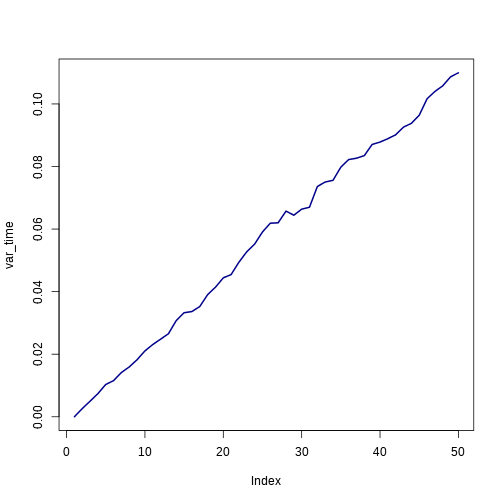
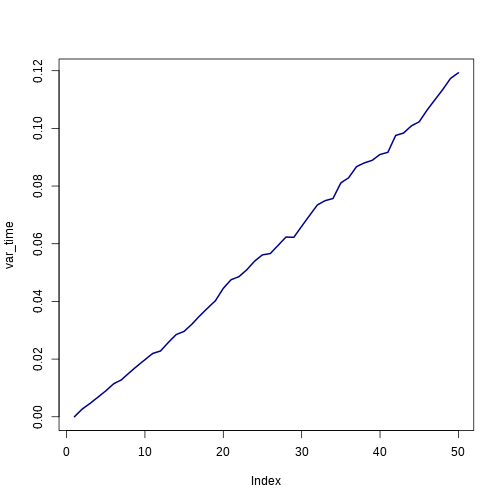
Exo neutral

diff --git a/seances/slides2.md b/seances/slides2.md
@@ -517,7 +517,7 @@ brownian(steps=4)
 ```
 
 ```
-[1]  0.000000  0.015248  0.004407 -0.075201
+[1]  0.000000 -0.008111  0.010608 -0.007255
 ```
 
 
@@ -533,11 +533,11 @@ for(i in c(1:5))
 ```
 
 ```
-[1] 0.00000 0.02607 0.03671
-[1]  0.00000 -0.03004 -0.04216
-[1]  0.00000 -0.06798 -0.13157
-[1]  0.00000 -0.05472 -0.06277
-[1] 0.00000 0.07012 0.05907
+[1] 0.00000 0.03095 0.04652
+[1]  0.000000 -0.015567  0.006057
+[1] 0.000000 0.004555 0.062313
+[1] 0.000000 0.002926 0.043918
+[1] 0.00000 0.02746 0.09229
 ```
 
 
@@ -550,10 +550,10 @@ replicate(5, brownian(steps=3))
 ```
 
 ```
-        [,1]      [,2]     [,3]     [,4]    [,5]
-[1,] 0.00000  0.000000  0.00000  0.00000 0.00000
-[2,] 0.02183 -0.006138 -0.07229 -0.03173 0.14611
-[3,] 0.09703 -0.008637 -0.07350 -0.07091 0.05688
+          [,1]      [,2]      [,3]     [,4]      [,5]
+[1,]  0.000000  0.000000  0.000000  0.00000  0.000000
+[2,] -0.035466 -0.009045 -0.007019 -0.03014 -0.050364
+[3,] -0.006589 -0.047416  0.003134 -0.09909 -0.005664
 ```
 
 
@@ -570,7 +570,7 @@ print(head(var_time))
 ```
 
 ```
-[1] 0.000000 0.002607 0.004974 0.007400 0.010330 0.011560
+[1] 0.000000 0.002685 0.004647 0.006779 0.008967 0.011421
 ```
 
 
@@ -601,3 +601,13 @@ plot(coef_var, type='l', lwd=2, col='darkgreen')
 
 ![plot of chunk unnamed-chunk-21](slides2-figure/unnamed-chunk-21.png) 
 
+
+Exercice - dynamiques écologiques neutres
+=======================
+
+1. On dispose d'un *pool* régional de `J` espèces, identifiées par leur index (de `1` à `J`).
+2. Sur une île, on a `K` individus pris au hasard parmis les `J` espèces.
+3. À chaque pas de temps, chaque individu a une probabilité `m` de mourir.
+4. La recolonisation est immédiate, soit par natalité (probabilité `n`), soit par immigration
+5. Toutes les espèces ont la même chance d'immigrer
+6. Tous les individus ont la même chance de se reproduire
